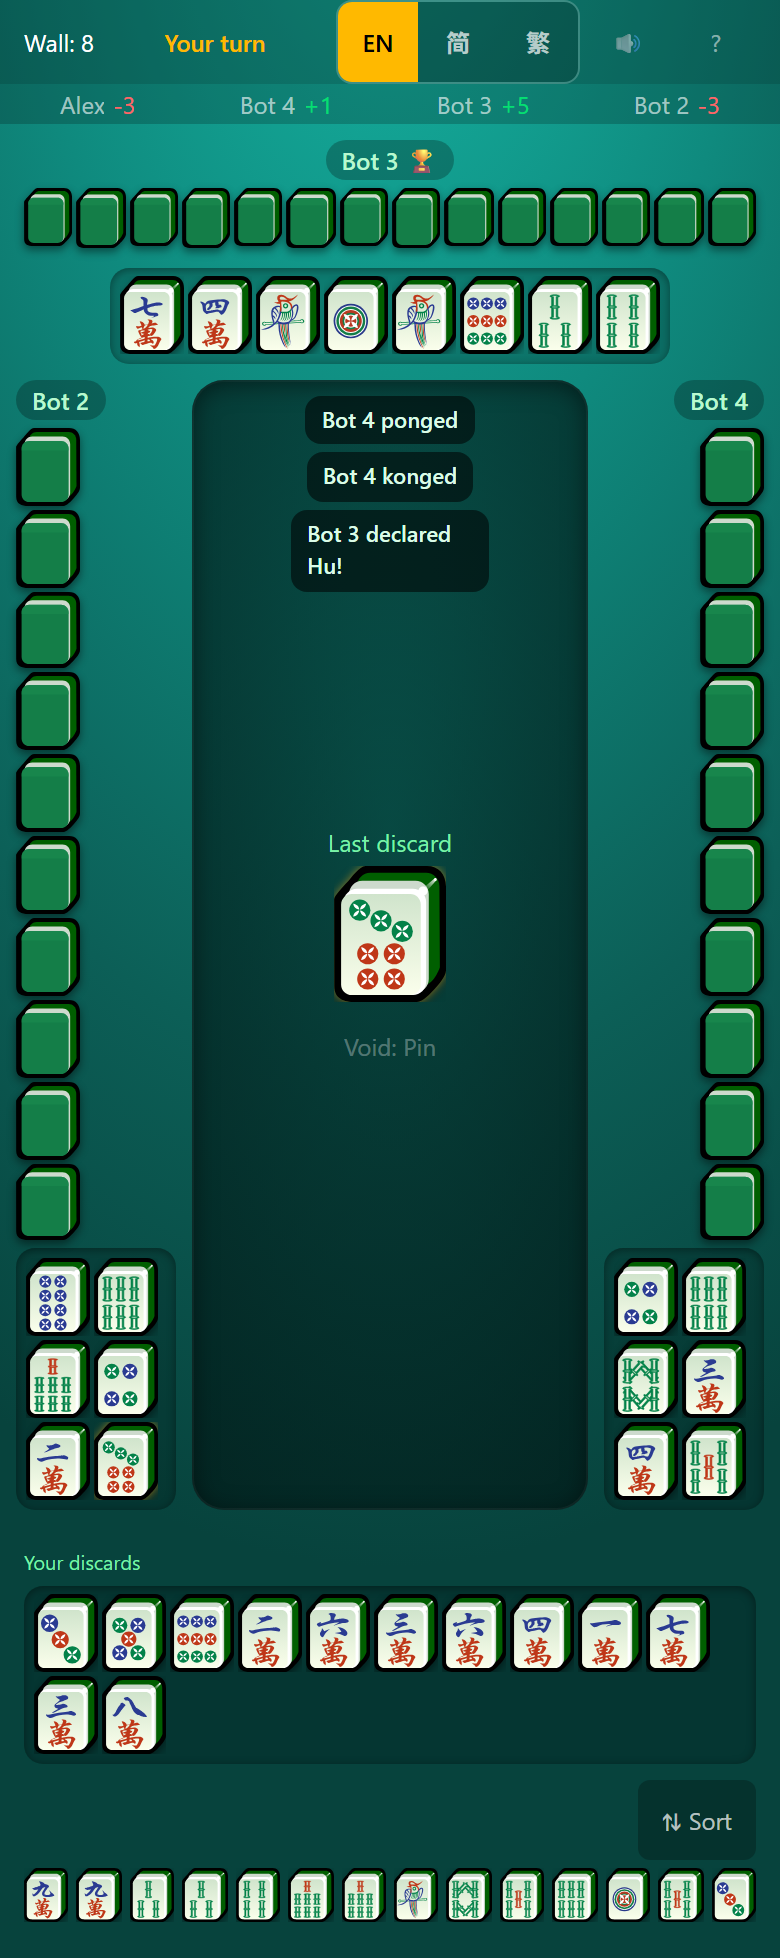
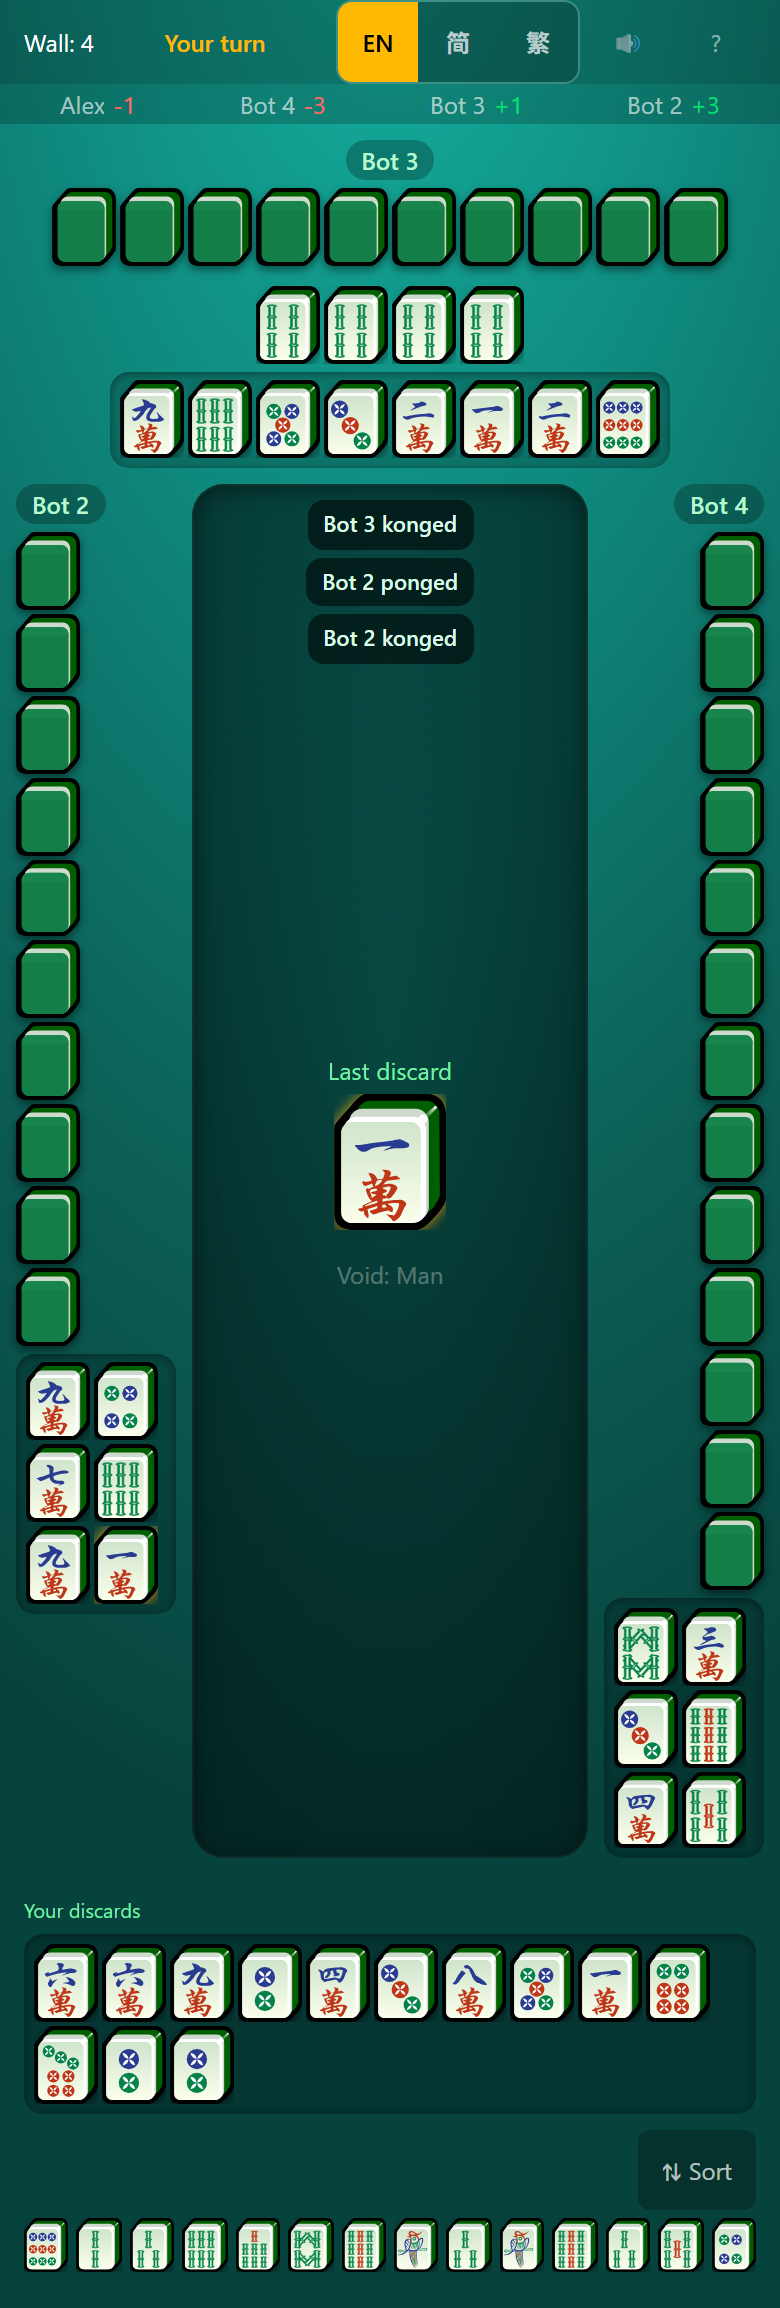
feat: close out round-end reveals (§12.11) with docs and screenshots
Records what shipped in ARCHITECTURE (§8.1 rows, §6.4 payload and spectator
reach, §11.1 the reconciliation property, §11.2/§11.3 the new tests), marks
the last deferral done, and adds the TODO section — including the two
findings review turned up: the pre-ledger snapshot restore bug, and that the
client's own tests were never typechecked.

Regenerates the screenshots. The capture now expands the top round-end row,
because a round that ends on an exhausted wall has no winner and every row
would otherwise be collapsed.

Changed region(s): [[0.0, 0.0, 1.0, 0.9969], [0.4308, 0.405, 0.5846, 0.5608]]

diff --git a/scripts/screenshots/capture.spec.ts b/scripts/screenshots/capture.spec.ts
@@ -120,5 +120,9 @@ test('regenerate docs screenshots', async ({ page, browser }) => {
     await page.waitForTimeout(180);
   }
   await expect(page.locator('text=Round End')).toBeVisible({ timeout: 15_000 });
+  // Winners' rows open themselves, but a round that ends on an exhausted wall has
+  // no winner and every row starts collapsed — expand the top one so the shot
+  // always shows the hand and the payment breakdown.
+  await page.locator('[aria-expanded="false"]').first().click();
   await shot(page, 'round-end.png');
 });

diff --git a/ARCHITECTURE.md b/ARCHITECTURE.md
@@ -641,6 +641,8 @@ Server pushes `view` to each player after every state-changing action (filtered 
 
 Both halves are per-viewer redacted before send: melds project as `PublicMeld` (a concealed kong's tile is `null` for everyone but its owner until round end — A27), the unflipped first discard projects as a bare `pendingFirstDiscard: boolean` (its owner alone gets the id, in `you.pendingFirstDiscardTile` — A37), and `redactEventsFor` nulls the tile on `drew`/`kongReplacement` events for everyone but the drawer; spectators never see drawn tiles (A31).
 
+`roundEnd` also goes to spectators — on broadcast and on a late join, mirroring the A9 player path — so the store keeps a spectating client on its own screen rather than navigating it to the player round-end screen. `RoundResult.players[]` carries each seat's revealed `hand` and `melds`, its `isReady` state, and its slice of the round's payment `ledger`; it is only ever built once the round has ended, which is what keeps the reveal out of `PlayerView` and out of the redaction rules above.
+
 `RoundResult` carries a `roundIndex`. A client that reconnects at round end is handed that round's result again (§6.5), so anything cumulative — the client's match-score totals — must be keyed on it rather than incremented on arrival (A39).
 
 ### 6.5 Reconnection
@@ -701,7 +703,7 @@ Mobile-first. Portrait phone is the design target; tablets and desktop scale up 
    - Huan and void declaration are whole screens of their own rather than states of this one, so there is no phase indicator here.
    - **Furiten badge:** visible to your own seat if you're in furiten state (skip-Hu locked until next self-draw). Tooltip explains the rule.
    - **First-discard flip panel:** on your first turn, if you separated a tile at void declaration (§5.4), the hand is not discardable and this panel shows that tile plus a "Flip your first discard" button — the one discard you don't get to choose. Opponents' unflipped tiles render as a tile back at the head of their pond.
-6. **Round end** — per-seat rank, wind, name, a Hu badge and this round's score delta, then match totals, then "Next round" / "End match" (host) or "Leave". It does *not* reveal hands or break the score down into fans and penalties, though `RoundResult` carries what that would need — see §12.11.
+6. **Round end** — per-seat rank, wind, name, a Hu badge and this round's score delta, then match totals, then "Next round" / "End match" (host) or "Leave". Each row expands (`RoundEndRow`) to that seat's revealed hand and melds, its fan list and hand value if it won or its ready state if it didn't, and an itemised list of the payments that produced its delta. Winners' rows start expanded. Spectators get the same rows on their own screen once the round settles.
 7. **Match end** — final standings from the accumulated `matchScores`, then back to the menu. Reached on the server's `matchEnd` frame, which used to reset straight to Landing with no result shown. (F9)
 
 App-root overlays, mounted alongside whichever screen is active:
@@ -855,6 +857,7 @@ After step 4, every future game uses the same URL — no per-session re-sharing.
 
 - Unit tests per module (tiles, melds, hand, scoring, claims, transitions).
 - **Property tests** with fast-check:
+  - **Ledger reconciliation:** for every seat, the ledger signed from its perspective (minus when it is the `from`, plus when it is the `to`) equals its `scoreDelta`, and entries with `to: null` sum to `penaltyPot`. This checks the payment matrix from a second direction: the existing balance property is satisfied by any internally consistent set of transfers, including ones that never emitted an event, and this one is not.
   - JSON round-trip: serialize → parse → equal for any GameState.
   - Tile conservation: `applyAction` never changes total tile count of 108.
   - **Payment-matrix balance:** redistributive payments sum to zero, with non-redistributive penalty deltas tracked separately. The engine maintains `state.penaltyPot` (tracked separately from `scoreDelta`) for the 48-point void-suit penalties, which are pure deductions per PDF page 27 and 31. The property: `sum(scoreDelta) === -sum(penaltyPot)`. Redistributive flows (Hu payments, kong payments, false-Hu penalty, bu-ting payouts) net to zero in `scoreDelta`.
@@ -870,6 +873,8 @@ After step 4, every future game uses the same URL — no per-session re-sharing.
 - Integration tests with fake WebSocket clients.
 - **Bot-vs-bot smoke:** 100 full games with 4 easy bots (plus 30 with medium bots). Assert no crashes, no rule violations rejected mid-game, payment-matrix balance for every game, exposed pungs actually form (A13), and — crucially — that wins come from players who separated a face-down first discard, not only from the rare indicator user. A bare "some Hu happened" assertion is what let A35 hide behind indicator users through five audit passes.
 - Tailscale detection mock tests (unit-level): given mocked `tailscale status --json` outputs, verify URL generation.
+- Round-end reveals: `buildRoundResult` carries hands, melds, ready state and a per-seat ledger; a spectator joining at round end is handed the result; and a snapshot written before `GameState.ledger` existed restores with an empty ledger rather than an undefined one (the same defence as `roundIndex`).
+- Replay back-compat lives in its own file because `server.test.ts` mocks `src/persistence.js` wholesale.
 
 ### 11.3 Client
 
@@ -881,6 +886,7 @@ helpers behind the components rather than rendered output:
 - `WsClient`: the retry cap and budget reset (F6), and that only the `join` handshake survives a closed socket (F21).
 - Pure helpers extracted for exactly this reason — `tileLabel` (F16), the event-feed sound/announcement mapping (F7), `joinErrorForStatus` (F22), the claim countdown's skew handling (F25) — each also asserted against the catalog so a rendered key can't go missing.
 - i18n catalog parity across the three languages (A18).
+- Round-end display helpers in `src/roundEnd.ts`: `formatFan` localizes a `FanEntry` and only shows a multiplier above 1; `ledgerLines` signs each entry from the viewing seat's perspective, since a redistributive entry appears in both the payer's and the payee's ledger.
 - `tests/sw.test.ts` runs the real `public/sw.js` in a stubbed worker global. Three of its four cases fail against the pre-F5 file, which is the point: the worker ships as a plain asset and nothing else type-checks or exercises it.
 
 ### 11.4 E2E
@@ -902,8 +908,8 @@ GitHub Actions: build engine → lint → typecheck → test (vitest) → build 
 
 ## 12. Open questions / explicit deferrals
 
-Items 1–10 were deferred at v1 and have since been implemented (✅); they are
-kept as a record of the decisions and where each landed. Item 11 is open.
+All items below have since been implemented (✅). Kept here as a record of the
+decisions and where each landed.
 
 1. **Reconnection > 60s** — ✅ Done: bot takeover holds for the rest of the round; a reconnected human reclaims their seat at the next round (`GameRoom.nextRound` recomputes `isBot` from `isHumanSeat` + connection state). See §6.5.
 2. **Host shutdown midgame** — ✅ Done: in-progress rooms are snapshotted to SQLite (`live_rooms` table) — debounced on every state change and flushed on graceful shutdown (SIGINT/SIGTERM). On boot, `restoreRoomsFromDisk()` rehydrates each room and re-registers its tokens, so players reconnect with their saved token and resume; unconnected human seats arm the normal 60s bot-takeover so play never stalls. Snapshots are deleted on `endMatch`. (A hard crash loses at most the last ~1s of actions.)
@@ -915,7 +921,7 @@ kept as a record of the decisions and where each landed. Item 11 is open.
 8. **Set-with-void-suit meld penalty** — ✅ Done: 48-point deduction enforced on pung/kong/concealed-kong of voided suit (`voidMeldPenalty` event).
 9. **False-Hu detection** — ✅ Done: 8 pts/opponent redistributive penalty + kong refund on invalid draw-Hu or claim-window Hu.
 10. **Replay-test corpus** — ✅ Done: canned games per fan combination + penalty paths.
-11. **Round-end hand reveals and score breakdown** — ⏳ Open. §8.1 promised them from v1 and the screen never had them: it shows a score delta per seat and nothing about *why*. The data is already on the wire — `RoundResult.players[].hu` is a full `HuRecord` with `fans`, `handValue` and `winningTile` — so this is presentation work, not protocol work. Note that concealed kongs would need a deliberate decision: they render as four backs even to their owner (A27), so a reveal has to opt them in explicitly.
+11. **Round-end hand reveals and score breakdown** — ✅ Done (2026-07-31). Only the fan list was on the wire; hands and the payment breakdown both needed the server to send more. `GameState.ledger` accumulates a `LedgerEntry` per payment, derived from the events the engine already emits inside the single `ok()` constructor so the two cannot drift, and living on the state so it survives the snapshot/restore path. `RoundResult.players[]` carries `hand`, `melds`, `isReady` and that seat's slice of the ledger; `HuRecord.fans` became `FanEntry[]` so fan names are translatable. See §8.1, §6.4 and §11.3.
 
 ---
 

diff --git a/TODO.md b/TODO.md
@@ -1,5 +1,68 @@
 # TODO
 
+## ✅ Round-end hand reveals and score breakdown (2026-07-31)
+
+Closes the one open deferral, [ARCHITECTURE.md §12.11](./ARCHITECTURE.md#12-open-questions--explicit-deferrals).
+Spec: `docs/superpowers/specs/2026-07-31-round-end-reveals-design.md`.
+Plan: `docs/superpowers/plans/2026-07-31-round-end-reveals.md`.
+
+§8.1 promised hand reveals and a fan/penalty breakdown from v1; the screen never
+had either, showing a score delta per seat and nothing about why. Contrary to the
+first read, only the fan list was already on the wire — hands and the payment
+breakdown both needed the server to send more.
+
+- [x] **Engine — payment ledger.** `GameState.ledger: LedgerEntry[]`
+  (`{reason, from, to, amount, detail}`), where `to: null` marks the two
+  non-redistributive void penalties. Entries are *derived* from the payment
+  events the engine already emits, inside the single `ok()` constructor every
+  successful action returns through, so the log cannot drift from the events
+  and no payment site had to be touched. It lives on the state rather than in
+  `GameRoom` because `serialize()` persists the state: a room-local accumulator
+  would come back empty after a host restart and quietly produce a wrong
+  breakdown.
+- [x] **Engine — reconciliation property.** For every seat, the ledger signed
+  from its perspective equals its `scoreDelta`, and `to: null` entries sum to
+  `penaltyPot`. This checks the payment matrix from a second direction — the
+  existing balance property is satisfied by any consistent set of transfers,
+  including ones that emitted no event. It passed on first run: the engine's
+  payments and its event log already agreed.
+- [x] **Engine — structured fans.** `HuRecord.fans` was `string[]` holding
+  pre-baked English (`"AllPungs×2"`), untranslatable in a trilingual UI. Now
+  `FanEntry[]`.
+- [x] **Protocol/server.** `RoundResult.players[]` gained `hand`, `melds`,
+  `isReady` and that seat's ledger slice. Built only once the round has ended,
+  so the reveal needs no new redaction rule in `PlayerView`. Spectators now
+  receive `roundEnd` too, on broadcast and on late join.
+- [x] **Client.** `RoundEndRow` — an expandable row per seat with the revealed
+  hand and melds, fans and hand value or ready state, and the itemised
+  payments, signed from that seat's perspective. Winners start expanded.
+  Reused on the spectate screen. New `fan.*` and `ledger.*` catalogs in three
+  languages, and pure helpers in `src/roundEnd.ts` so the no-DOM client tests
+  can reach the logic.
+- [x] **Restore back-compat (found in review).** Adding a required
+  `GameState.ledger` broke restoring any snapshot written by an earlier
+  version: `GameRoom.restore` assigned `snap.state` verbatim, so `ledger` came
+  back `undefined` and the next `clone()` spread it. Resume-after-restart is a
+  supported feature, so every host with a game in progress would have hit this
+  on upgrade. Normalised on read, following the `snap.roundIndex ?? 0`
+  precedent already in that method.
+- [x] **Replay back-compat.** Rows already in a user's `games.db` hold the old
+  `fans` strings; parsed back on read rather than migrating a user's file.
+- [x] **Client tests are now typechecked.** `packages/client/tsconfig.json` had
+  `include: ["src"]`, so the client's own tests never typechecked — which is why
+  a stale `RoundResult` helper in `store.test.ts` produced no error. Now
+  `["src", "tests"]`.
+
+**Noted, not filed:** `LedgerEntry.detail` (kong subtype, refund reason) renders
+as the raw English identifier — `Kong (exposed)`, `Kong refund (wallEnd)` — in
+all three languages. The reason itself is localized; only the qualifier is not.
+Also, two more instances of the same bug class as the ledger restore bug exist
+in the restore path and were left alone: `pendingFirstDiscard` (renamed in A35)
+is compared `!== null` at `actions.ts:1068` and `views.ts:116`/`243`, so a
+pre-A35 snapshot restores as `undefined`, reads as "has a pending tile", and
+`views.ts:116` then offers only `flipFirstDiscard` — a soft-locked seat; and
+`drewThisTurn` (added A7) restores falsy, which fails safe.
+
 ## 🔍 Frontend & design audit — seventh pass (2026-07-31)
 
 Audit of `packages/client` only (React 18 + Tailwind + Zustand + Framer Motion

diff --git a/CLAUDE.md b/CLAUDE.md
@@ -113,10 +113,8 @@ Full tree: [ARCHITECTURE.md §3](./ARCHITECTURE.md#3-repo-layout).
 
 ## Status
 
-All v1 work, six full-repo audit passes (A1–A39, through 2026-07-25) and a
-frontend/design pass (F1–F25, 2026-07-31) are complete. Per-item history is in
-[TODO.md](./TODO.md).
-
-**One open item:** round-end hand reveals and a fan/penalty breakdown —
-documented since v1, never built, and the data is already on the wire. See
-[ARCHITECTURE.md §12.11](./ARCHITECTURE.md#12-open-questions--explicit-deferrals).
+All v1 work, six full-repo audit passes (A1–A39, through 2026-07-25), a
+frontend/design pass (F1–F25) and round-end hand reveals with a fan/penalty
+breakdown (2026-07-31) are complete. **No open items.** Per-item history is in
+[TODO.md](./TODO.md); the deferral record is
+[ARCHITECTURE.md §12](./ARCHITECTURE.md#12-open-questions--explicit-deferrals).
